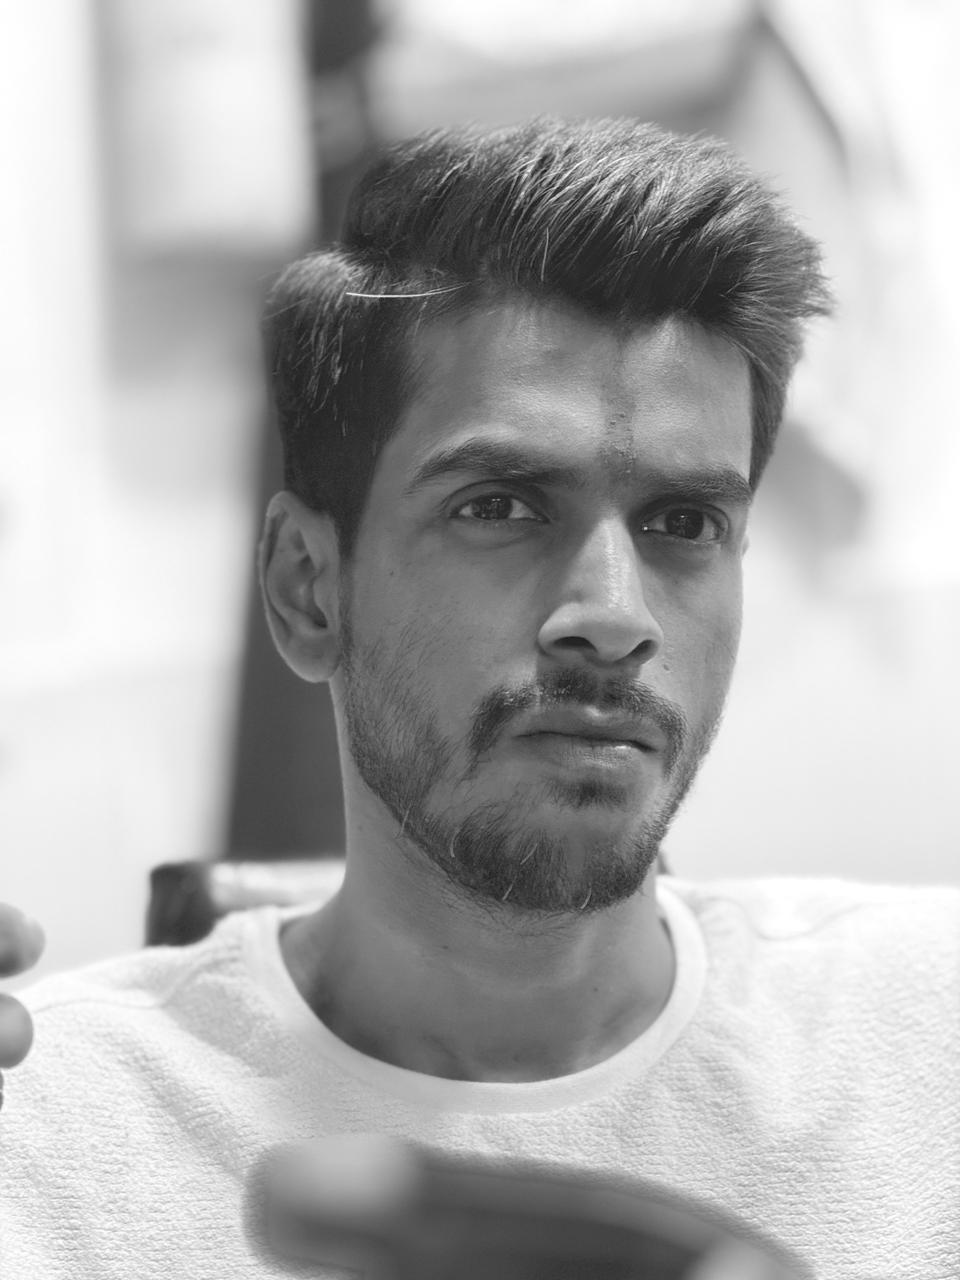
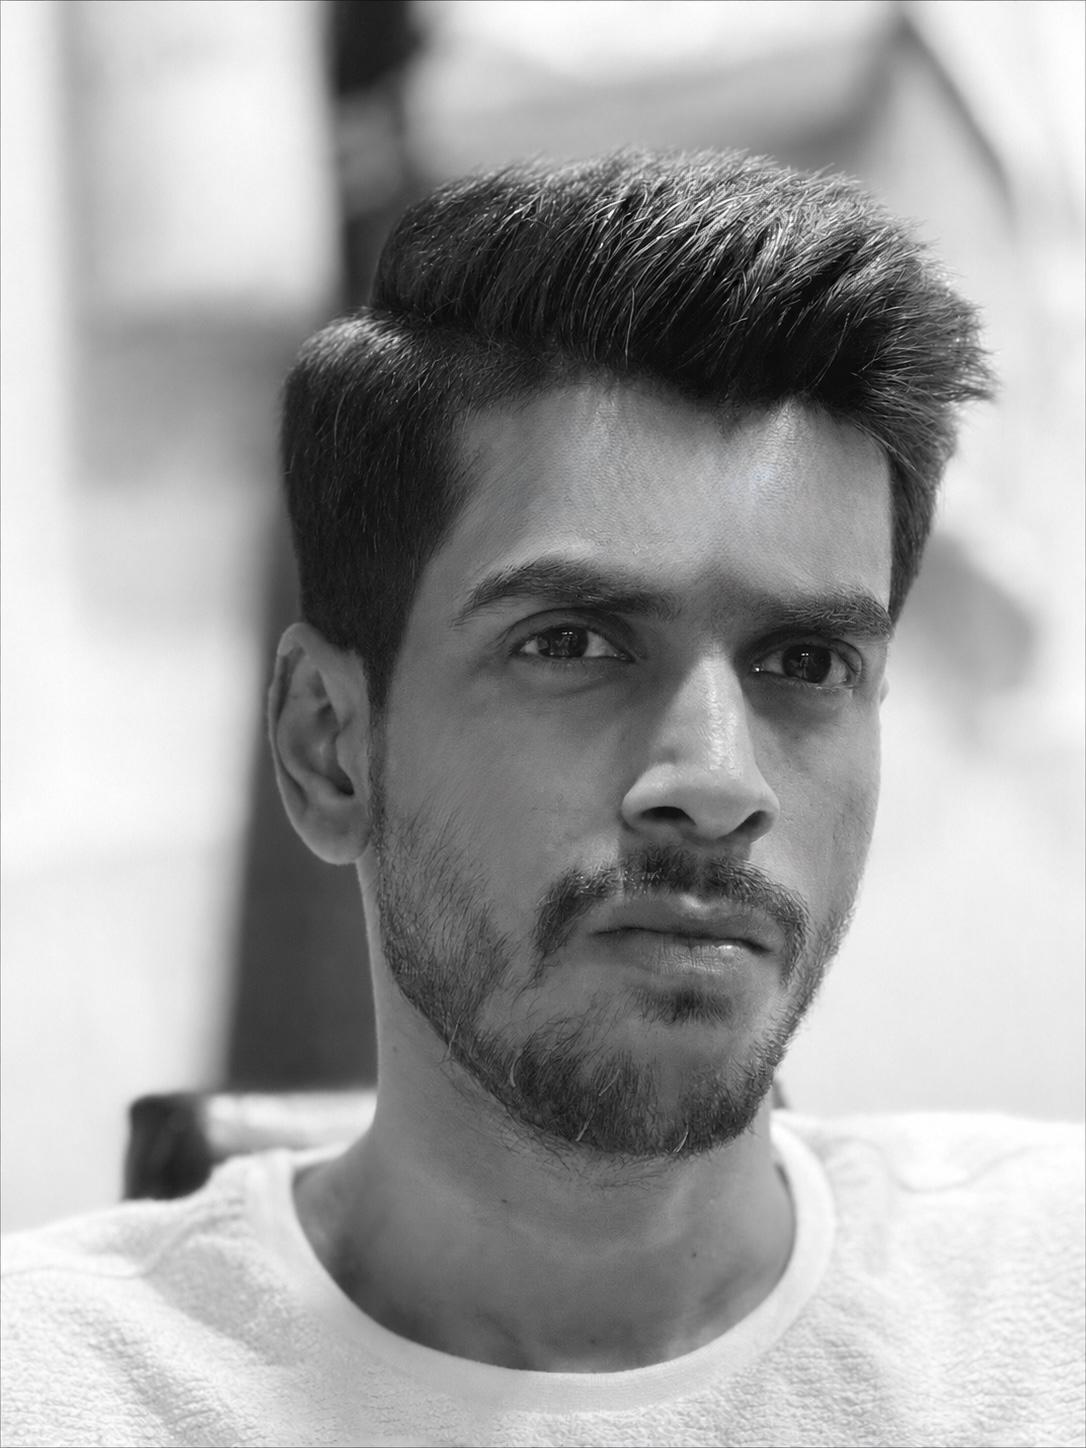
Add files via upload

diff --git a/index.html b/index.html
@@ -242,13 +242,16 @@
     padding:120px 0 60px;
     position:relative;
     overflow:hidden;
+    background-image:linear-gradient(90deg,rgba(10,10,10,0.92) 0%,rgba(10,10,10,0.78) 45%,rgba(10,10,10,0.55) 100%),url(assets/hero-bg.jpg);
+    background-size:cover;
+    background-position:center;
+    background-repeat:no-repeat;
   }
   .hero::before{
     content:"";
     position:absolute;
     inset:0;
-    background:radial-gradient(ellipse at 30% 50%,rgba(212,166,71,0.06) 0%,transparent 60%),
-               linear-gradient(180deg,rgba(10,10,10,0.1) 0%,transparent 30%,rgba(10,10,10,0.4) 100%);
+    background:linear-gradient(180deg,rgba(10,10,10,0.1) 0%,transparent 30%,rgba(10,10,10,0.4) 100%);
     pointer-events:none;
     z-index:1;
   }
@@ -256,7 +259,7 @@
     content:"";
     position:absolute;
     inset:0;
-    background:radial-gradient(ellipse at 80% 80%,rgba(212,166,71,0.04) 0%,transparent 50%);
+    background:transparent;
     pointer-events:none;
     z-index:1;
   }
@@ -837,8 +840,26 @@
     font-family:'Bebas Neue',sans-serif;
     font-size:clamp(2.2rem,3.5vw,3rem);
     color:#F5F0E8;
-    margin-bottom:14px;
+    margin-bottom:10px;
     letter-spacing:0.01em;
+  }
+  .service-price{
+    display:flex;
+    align-items:baseline;
+    gap:6px;
+    margin-bottom:14px;
+  }
+  .price-amount{
+    font-family:'Montserrat',sans-serif;
+    font-weight:800;
+    font-size:1.35rem;
+    color:#D4A647;
+    letter-spacing:0.01em;
+  }
+  .price-period{
+    font-family:'DM Sans',sans-serif;
+    font-size:0.82rem;
+    color:rgba(245,240,232,0.55);
   }
   .service-tagline{
     font-family:'Lora',serif;
@@ -1057,6 +1078,7 @@
     font-size:1.05rem;
     color:rgba(245,240,232,0.6);
     line-height:1.7;
+    text-shadow:0 2px 4px rgba(0,0,0,0.98),0 0 10px rgba(0,0,0,0.95),0 0 24px rgba(0,0,0,0.8);
   }
   .testimonial-grid{
     display:grid;
@@ -1066,9 +1088,9 @@
   }
   .testimonial-card{
     position:relative;
-    background:linear-gradient(135deg,rgba(255,255,255,0.05) 0%,rgba(255,255,255,0.015) 100%);
+    background:linear-gradient(135deg,rgba(20,20,20,0.66) 0%,rgba(20,20,20,0.5) 100%);
     backdrop-filter:blur(24px) saturate(1.4);
-    border:1px solid rgba(255,255,255,0.08);
+    border:1px solid rgba(255,255,255,0.12);
     border-left:3px solid #D4A647;
     border-radius:0 16px 16px 0;
     padding:36px 36px 36px 40px;
@@ -1623,6 +1645,15 @@
     color:rgba(245,240,232,0.35);
     letter-spacing:0.05em;
   }
+  .footer-disclaimer{
+    max-width:720px;
+    margin:24px auto 0;
+    font-family:'DM Sans',sans-serif;
+    font-size:11px;
+    line-height:1.7;
+    color:rgba(245,240,232,0.35);
+    text-align:center;
+  }
 
   /* ---------- ANIMATION UTILITIES ---------- */
   .fade-up{
@@ -1687,7 +1718,12 @@
 
   /* ---------- INACTION BLOCK ---------- */
   .inaction-block{
-    background:linear-gradient(135deg,rgba(212,166,71,0.06) 0%,rgba(10,10,10,0) 60%);
+    position:relative;
+    overflow:hidden;
+    background-image:linear-gradient(rgba(8,8,8,0.58),rgba(8,8,8,0.72)),url(assets/cost-of-waiting-bg.jpg);
+    background-size:cover;
+    background-position:center right;
+    background-repeat:no-repeat;
     border-top:1px solid rgba(212,166,71,0.15);
     border-bottom:1px solid rgba(212,166,71,0.15);
     padding:60px 0;
@@ -1960,14 +1996,25 @@
   .sticky-cta-note{ display:block; text-align:center; margin-top:7px; font-family:'Montserrat',sans-serif; font-size:10px; letter-spacing:0.12em; text-transform:uppercase; color:rgba(245,240,232,0.5); }
 
   /* ---------- CORNER LOGO ---------- */
-  .brand-corner{ position:fixed; top:16px; left:22px; z-index:950; display:block; transition:transform 0.3s ease; }
-  .brand-corner img{ height:58px; width:auto; display:block; filter:drop-shadow(0 4px 14px rgba(0,0,0,0.55)); }
-  .brand-corner:hover{ transform:translateY(-2px); }
+  .brand-corner{ position:fixed; top:24px; left:44px; z-index:950; display:flex; flex-direction:column; align-items:flex-start; line-height:1; text-decoration:none; transition:opacity 0.3s ease; text-shadow:0 0 2px #0A0A0A,0 0 2px #0A0A0A,0 0 3px #0A0A0A,0 0 5px #0A0A0A,0 0 5px #0A0A0A,0 0 8px #0A0A0A,0 0 10px #0A0A0A; }
+  .brand-corner:hover{ opacity:0.85; }
   .brand-corner:focus-visible{ outline:2px solid #D4A647; outline-offset:4px; border-radius:8px; }
+  .bc-the{ font-family:'Montserrat',sans-serif; font-weight:800; font-size:11px; letter-spacing:0.28em; text-transform:uppercase; color:#F5F0E8; }
+  .bc-subh{ font-family:'Dancing Script',cursive; font-weight:700; font-size:40px; color:#D4A647; line-height:0.82; margin-top:-2px; }
+  .bc-protocol{ font-family:'Montserrat',sans-serif; font-weight:700; font-size:11px; letter-spacing:0.25em; text-transform:uppercase; color:#F5F0E8; margin-top:-2px; margin-left:52px; }
 
   /* split-paragraph spacing */
   .diff-sub{ margin-bottom:20px; }
   .inaction-copy{ margin-bottom:18px; }
+
+  /* ---------- TESTIMONIALS BACKGROUND ---------- */
+  #testimonials.alt{
+    position:relative;
+    background-image:linear-gradient(rgba(8,8,8,0.62),rgba(8,8,8,0.74)),url(assets/testimonials-bg.jpg);
+    background-size:cover;
+    background-position:left center;
+    background-repeat:no-repeat;
+  }
 
   @media (max-width:768px){
     section{padding:48px 0;}
@@ -1975,10 +2022,11 @@
     .snapshot-grid{ grid-template-columns:1fr; }
     .sticky-cta{ display:block; }
     .nav{top:14px;padding:8px 10px;min-width:auto;gap:4px;left:auto;right:14px;transform:none;}
-    .brand-corner{ top:14px; left:16px; }
-    .brand-corner img{ height:40px; }
+    .brand-corner{ top:18px; left:24px; }
+    .bc-subh{ font-size:30px; }
+    .bc-protocol{ margin-left:38px; }
     .nav-cta{padding:8px 14px !important;font-size:11px !important;}
-    .hero{padding:92px 0 44px;}
+    .hero{padding:92px 0 44px;background-image:linear-gradient(rgba(10,10,10,0.90),rgba(10,10,10,0.90)),url(assets/hero-bg.jpg);background-position:center;background-size:cover;}
     .hero-headline{font-size:clamp(2.6rem,11vw,4.5rem);}
     .services-grid{grid-template-columns:1fr;}
     .testimonial-grid{grid-template-columns:1fr;}
@@ -2133,7 +2181,9 @@
 
 <!-- Corner logo -->
 <a href="#hero" class="brand-corner" aria-label="The Subh Protocol — home">
-  <img src="assets/subh-logo.png" alt="The Subh Protocol" />
+  <span class="bc-the">The</span>
+  <span class="bc-subh">Subh</span>
+  <span class="bc-protocol">Protocol</span>
 </a>
 
 <!-- NAVIGATION -->
@@ -2282,7 +2332,7 @@
         <div class="cred-name fade-up-strong">SUBHAM</div>
         <span class="cred-name-sub fade-up">Practitioner · Coach · Martial Artist</span>
         <img src="assets/subham-portrait.jpg" alt="Subham, founder of The Subh Protocol" class="about-portrait fade-up" loading="lazy" />
-        <p class="cred-footer fade-up">9 years full-contact Karate · Kali &amp; Hubud · 10 years Calisthenics · Functional Nutrition &amp; Biohacking practice</p>
+        <p class="cred-footer fade-up">9 years full-contact Karate · Kali &amp; Hubud · 10 years Calisthenics · Certified in Functional Nutrition (iThrive) · Certified in Biohacking (Biohacking India)</p>
       </div>
       <!-- RIGHT: scrollable narrative -->
       <div class="letter-inner">
@@ -2291,6 +2341,7 @@
         <p class="letter-para fade-up"><span class="opening">My mother is the reason I stepped out of mainstream fitness and into nutrition and root-cause health.</span> Watching conventional approaches repeatedly fail someone I loved changed how I see the body — not as a machine to push, but as a system trying to communicate.</p>
         <p class="letter-para fade-up"><span class="opening">That frustration became obsession.</span> It became years of parallel study and lived practice — nutrition, biohacking, advanced diagnostics, and nearly a decade of full-contact martial arts. No single discipline revealed the answer. It was the collision of all of them that taught me what no textbook could: how the body actually moves, recovers, coordinates, and sustains itself when every system is addressed at once.</p>
         <p class="cred-contrast fade-up">Most practitioners understand the body either from the outside — through training — or through a clinical lens. I work both at once, which is exactly what real change requires. Very few practitioners anywhere work at the intersection of clinical biomarker analysis, nutrition, and martial arts-based movement therapy simultaneously.</p>
+        <p class="letter-para fade-up">To be clear about how I work: I am a certified practitioner, not a doctor. I do not diagnose, treat, or replace medical care — I analyse your biomarkers and build nutrition, training, and lifestyle protocols around them, and I flag anything that needs a physician. You stay in charge of your medical decisions; I make the data usable.</p>
         <p class="cred-contrast fade-up">Every recommendation in this protocol — diet, supplements, lifestyle adjustments, biohacking methods — is derived from peer-reviewed scientific research. Nothing here is based on personal preference, market trends, or what is currently popular in the fitness industry.</p>
         <p class="letter-para fade-up">This is not a niche offering. It is a gap in the market that took nearly a decade of parallel study and practice to fill. The professionals I work with are not lazy or undisciplined — they are intelligent, capable people running systems never designed for the demands of their life. They tried the standard answers. The standard answers did not work. I do not take every client who enquires. The 15-minute call is itself a filter — if I cannot genuinely help you, I will say that directly.</p>
         <p class="letter-para final fade-up">If any of this page has felt like someone finally understands your exact situation — that is not an accident. This protocol exists because I needed to build something I could not find anywhere else.</p>
@@ -2550,8 +2601,9 @@
           <div class="service-duration-badge featured-dur">12 Weeks</div>
         </div>
         <h3 class="service-title">Root Cause Audit</h3>
+        <div class="service-price"><span class="price-amount">₹11,999</span><span class="price-period"> / 3 months</span></div>
         <p class="service-tagline">For the professional who needs to understand what is actually driving their symptoms — before committing to anything else.</p>
-        <div class="service-highlight-stat">Blood work-guided intervention alone typically reduces symptoms by <strong>40–60%.</strong> Every recommendation is backed by peer-reviewed scientific literature.</div>
+        <div class="service-highlight-stat">In practice, blood work-guided intervention alone has reduced clients' symptoms by roughly <strong>40–60%</strong> — confirmed by the week-12 retest. Every recommendation is traceable to the research behind it.</div>
         <div class="service-divider"></div>
         <div class="service-features">
           <div class="service-feature">
@@ -2609,13 +2661,14 @@
           <div class="service-duration-badge">4 Weeks · Renewable</div>
         </div>
         <h3 class="service-title">The Movement Protocol</h3>
+        <div class="service-price"><span class="price-amount">₹15,999 – ₹19,999</span><span class="price-period"> / month · scaled to 3–6 days</span></div>
         <p class="service-tagline">For the professional who wants every component of physical fitness rebuilt — without the clinical commitment. The training methodology, standalone.</p>
         <div class="service-highlight-stat">The only movement protocol covering strength, aerobic capacity, coordination, agility, mental sharpness, and self-defence awareness — in one structured 4-week system.</div>
         <div class="service-divider"></div>
         <div class="service-features">
           <div class="service-feature">
             <span class="sf-check">✓</span>
-            <span>Full 6-day training cycle — every component of fitness addressed</span>
+            <span>Training cycle scaled to your schedule — 3 to 6 days, every component addressed</span>
           </div>
           <div class="service-feature">
             <span class="sf-check">✓</span>
@@ -2632,6 +2685,10 @@
           <div class="service-feature">
             <span class="sf-check">✓</span>
             <span>Flexibility, mobility, breathwork &amp; active recovery</span>
+          </div>
+          <div class="service-feature">
+            <span class="sf-check">✓</span>
+            <span>Basic nutrition guidance for body recomposition — general principles to support fat loss and muscle gain, with no clinical biomarker analysis or supplement protocols</span>
           </div>
           <div class="service-feature">
             <span class="sf-check">✓</span>
@@ -2658,7 +2715,7 @@
 </section>
 
 <!-- SECTION 6 — SOCIAL PROOF -->
-<section class="alt">
+<section class="alt" id="testimonials">
   <div class="container">
     <div class="testimonials-intro">
       <span class="eyebrow fade-up">What Changes</span>
@@ -2706,7 +2763,7 @@
     <div class="stats-strip fade-up">
       <div class="stat-cell">
         <div class="stat-number">40–60%</div>
-        <div class="stat-label">Average symptom reduction with blood work intervention</div>
+        <div class="stat-label">Typical symptom reduction clients report, confirmed by 12-week retest</div>
       </div>
       <div class="stat-cell">
         <div class="stat-number">6 Days</div>
@@ -2745,7 +2802,7 @@
         </div>
         <div class="filter-item">
           <span class="filter-icon">+</span>
-          <span>You can commit 6 days a week to the protocol.</span>
+          <span>You can commit to a consistent weekly schedule — 3 to 6 days, built around your life.</span>
         </div>
         <div class="filter-item">
           <span class="filter-icon">+</span>
@@ -2853,7 +2910,7 @@
           <span class="faq-icon" aria-hidden="true"></span>
         </button>
         <div class="faq-answer">
-          <div class="faq-answer-inner">Every single recommendation in the protocol — the nutrition approach, the supplement choices, the lifestyle adjustments, the biohacking methods, the recovery strategies — is derived from peer-reviewed scientific literature. Nothing is based on personal preference, nothing is trend-driven, and nothing is included because it is popular right now. If a recommendation cannot be justified by research specific to your biomarker findings, it does not make it into your protocol. This is not a generic wellness plan. It is a clinically reasoned document built around your specific biological data.</div>
+          <div class="faq-answer-inner">Every single recommendation in the protocol — the nutrition approach, the supplement choices, the lifestyle adjustments, the biohacking methods, the recovery strategies — is derived from peer-reviewed scientific literature. Nothing is based on personal preference, nothing is trend-driven, and nothing is included because it is popular right now. If a recommendation cannot be justified by research specific to your biomarker findings, it does not make it into your protocol. This is not a generic wellness plan. It is a clinically reasoned document built around your specific biological data. For example: persistent afternoon crashes alongside heavy coffee intake and low ferritin on a panel point to caffeine blunting iron absorption — so the fix is iron and timing strategy, not another stimulant. That chain — biomarker to mechanism to intervention — is how every recommendation is built.</div>
         </div>
       </div>
 
@@ -2864,6 +2921,16 @@
         </button>
         <div class="faq-answer">
           <div class="faq-answer-inner">The specific comprehensive test I recommend must be done. Existing partial reports can be reviewed as context but cannot replace the required panel.</div>
+        </div>
+      </div>
+
+      <div class="faq-item fade-up">
+        <button class="faq-question" aria-expanded="false">
+          <span>How does the blood test work — and is this available outside India?</span>
+          <span class="faq-icon" aria-hidden="true"></span>
+        </button>
+        <div class="faq-answer">
+          <div class="faq-answer-inner">Inside India: you get the exact panel I specify done at any accredited lab or hospital — no prescription needed — and share the results. Outside India: many countries require a physician's order for lab testing, so you obtain the same specified panel through your own doctor or local provider and share the results with me. Either way, I tell you precisely which biomarkers are required, and your protocol is built from your results. I do not order tests or prescribe — I analyse the data you provide and build the protocol around it.</div>
         </div>
       </div>
 
@@ -2943,7 +3010,7 @@
           <span class="faq-icon" aria-hidden="true"></span>
         </button>
         <div class="faq-answer">
-          <div class="faq-answer-inner">Blood work-guided interventions typically show 40–60% symptom reduction within the first 12 weeks. Physical and energy changes begin in weeks 2–4 for most clients. The compulsory retest at 12 weeks shows exactly what has shifted.</div>
+          <div class="faq-answer-inner">Blood work-guided interventions typically bring noticeable symptom reduction within the first 12 weeks — clients often see around 40–60%, confirmed by the retest. Physical and energy changes begin in weeks 2–4 for most clients. The compulsory retest at 12 weeks shows exactly what has shifted.</div>
         </div>
       </div>
 
@@ -2953,7 +3020,7 @@
           <span class="faq-icon" aria-hidden="true"></span>
         </button>
         <div class="faq-answer">
-          <div class="faq-answer-inner">Discussed directly on the call.</div>
+          <div class="faq-answer-inner">Root Cause Audit: ₹11,999 for the full 3 months (fixed). Movement Protocol: ₹15,999 to ₹19,999 per month, depending on whether you train 3, 4, 5 or 6 days a week — the exact figure is confirmed on the call.</div>
         </div>
       </div>
     </div>
@@ -3025,6 +3092,7 @@
       </div>
     </div>
     <div class="footer-bottom">© The Subh Protocol. All rights reserved.</div>
+    <p class="footer-disclaimer">The Subh Protocol provides health, nutrition, and fitness coaching for educational purposes. It is not medical advice and is not a substitute for diagnosis or treatment by a qualified physician. Always consult your doctor before making changes — especially regarding medications or existing conditions. Any biomarker data you share is kept private and used only to build your protocol.</p>
   </div>
 </footer>
 
